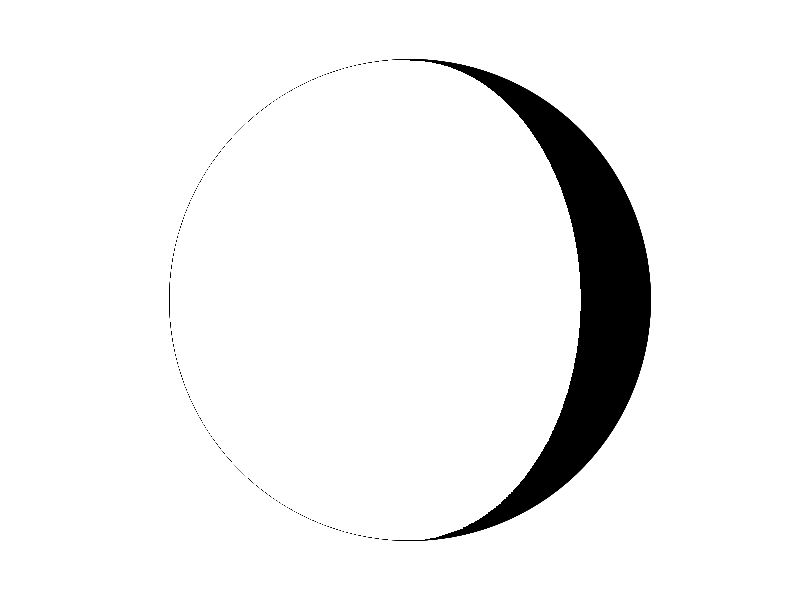
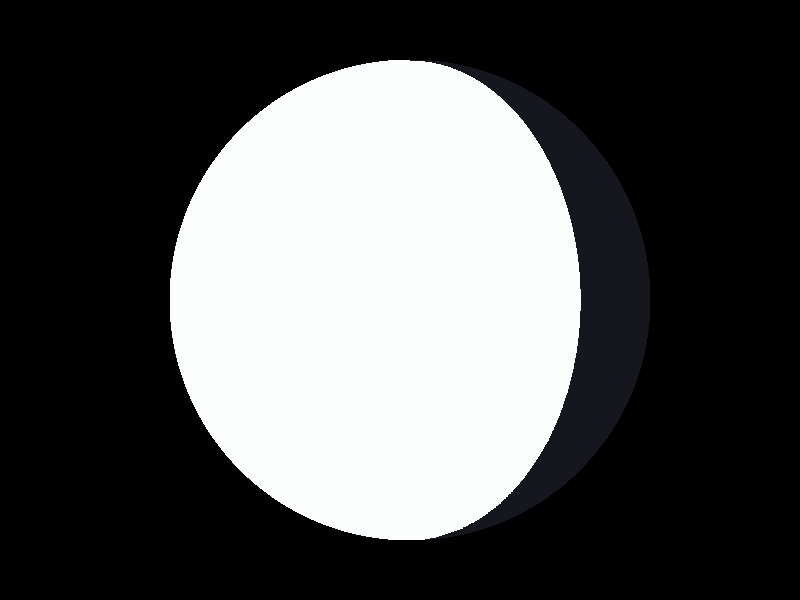
make things have a dark background

diff --git a/animations/lunar_phases/phases.py b/animations/lunar_phases/phases.py
@@ -15,10 +15,13 @@ lat = numpy.linspace(-90, 90, 180)
 lonv, latv = numpy.meshgrid(lon, lat)
 
 data = numpy.zeros_like(lonv)
-data[lonv > 180] = 1.0
+data[:,:] = 0.99
+data[lonv > 180] = 0.1
 
 i = 0
 while i < len(lon_center):
+
+    fig = pylab.figure(facecolor="black")
 
     map = Basemap(projection='ortho', lat_0 = 0, lon_0 = lon_center[i],
                   resolution = 'l', area_thresh = 1000.)
@@ -28,8 +31,10 @@ while i < len(lon_center):
     #map.drawmeridians(numpy.arange(0, 360, 15), color="0.5", latmax=90)
     #map.drawparallels(numpy.arange(-90, 90, 15), color="0.5", latmax=90) 
 
-    map.pcolor(lonv, latv, data, latlon=True, cmap=cm.binary)
+    map.pcolor(lonv, latv, data, latlon=True, cmap=cm.bone, vmin = 0.0, vmax=1.0)
 
-    pylab.savefig("phase-{:02d}.png".format(i))
+    pylab.savefig("phase-{:02d}.png".format(i), facecolor=fig.get_facecolor())
+
+    pylab.close()
 
     i += 1
